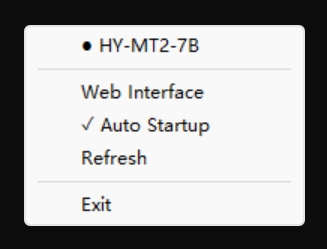
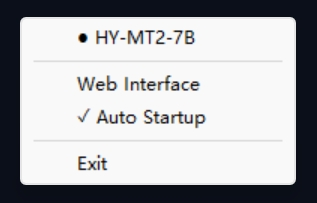
Remove Refresh, fix process tree kill, drop scanning logic
- Drop Refresh button — restart app manually to apply config changes
   - Fix stopLlamaServer to use taskkill /T (tree kill) for child processes
   - Add 5s timeout on Process.Wait + 300ms port release delay
   - Remove modelDir, excludePatterns, scanModels, isExcluded
   - Hardcode defaultArgs for initial models.ini [*] generation
   - Fix parseINISections matching model-draft as model entry
   - config.json down to 3 fields: autoStartEnabled, port, pollInterval
   - models.ini is fully user-managed, no auto-append on refresh

diff --git a/main.go b/main.go
@@ -53,7 +53,6 @@ var (
 		modelLabel   *systray.MenuItem
 		webInterface *systray.MenuItem
 		autoStart    *systray.MenuItem
-		refresh      *systray.MenuItem
 		quit         *systray.MenuItem
 	}
 )
@@ -267,15 +266,29 @@ func parseINISections(content string) []modelSection {
 	return sections
 }
 
+func stopLlamaServer() {
+	if serverCmd == nil || serverCmd.Process == nil {
+		return
+	}
+	exec.Command("taskkill", "/f", "/t", "/pid", strconv.Itoa(serverCmd.Process.Pid)).Run()
+
+	done := make(chan struct{})
+	go func() {
+		serverCmd.Process.Wait()
+		close(done)
+	}()
+	select {
+	case <-done:
+	case <-time.After(5 * time.Second):
+	}
+	serverCmd = nil
+	time.Sleep(300 * time.Millisecond)
+}
+
 func startLlamaServer() error {
 	serverCmdMu.Lock()
+	stopLlamaServer()
 	defer serverCmdMu.Unlock()
-
-	if serverCmd != nil && serverCmd.Process != nil {
-		serverCmd.Process.Kill()
-		serverCmd.Process.Wait()
-		serverCmd = nil
-	}
 
 	args := []string{
 		"--models-preset", "models.ini",
@@ -398,7 +411,6 @@ func buildMenu() {
 	systray.AddSeparator()
 	menuItems.webInterface = systray.AddMenuItem("Web Interface", "Open web UI")
 	menuItems.autoStart = systray.AddMenuItem("Auto Startup", "Toggle auto-start")
-	menuItems.refresh = systray.AddMenuItem("Refresh", "Reload config and models.ini")
 	systray.AddSeparator()
 	menuItems.quit = systray.AddMenuItem("Exit", "Quit lmgo")
 
@@ -415,12 +427,6 @@ func buildMenu() {
 			setAutoStart(config.AutoStartEnabled)
 			saveConfig()
 			refreshMenuState()
-		}
-	}()
-
-	go func() {
-		for range menuItems.refresh.ClickedCh {
-			refreshAll()
 		}
 	}()
 
@@ -449,23 +455,6 @@ func refreshMenuState() {
 	} else {
 		menuItems.autoStart.SetTitle("Auto Startup")
 	}
-}
-
-func refreshAll() {
-	if err := loadConfig(); err != nil {
-		log.Printf("Failed to reload config: %v", err)
-		return
-	}
-	if err := generateModelsINI(); err != nil {
-		log.Printf("Failed to regenerate models.ini: %v", err)
-		return
-	}
-	if err := startLlamaServer(); err != nil {
-		log.Printf("Failed to restart llama-server: %v", err)
-		return
-	}
-	refreshMenuState()
-	log.Printf("Refreshed: %d models", len(modelSections))
 }
 
 func startupShortcutPath() (string, error) {
@@ -514,9 +503,6 @@ func isAutoStartEnabled() (bool, error) {
 
 func onExit() {
 	serverCmdMu.Lock()
-	if serverCmd != nil && serverCmd.Process != nil {
-		serverCmd.Process.Kill()
-		serverCmd.Process.Wait()
-	}
+	stopLlamaServer()
 	serverCmdMu.Unlock()
 }

diff --git a/README_zh.md b/README_zh.md
@@ -28,7 +28,6 @@ lmgo-v2 是一个 Windows 系统托盘应用，封装了 llama.cpp server 的 **
 2. 放到空文件夹中运行
 3. 托盘图标出现，自动生成 `config.json` 和 `models.ini`
 4. 编辑 `models.ini` 定义模型（路径、参数等）
-5. 托盘菜单点 **Refresh** 使配置生效
 
 ## 配置
 
@@ -88,7 +87,6 @@ mmproj = D:/LLM/mmproj-F16.gguf
 
 段名即 API 请求中的模型标识符。所有 [llama-server CLI 参数](https://github.com/ggml-org/llama.cpp) 都可以作为 INI key（去掉前缀 `--` 即可）。
 
-`models.ini` 已存在时，Refresh 只追加新扫描到的 `.gguf` 文件，手动编辑的内容不会被覆盖。
 
 ## API 使用
 
@@ -121,7 +119,6 @@ client.chat.completions.create(
 ──────────────
 Web Interface        ← 打开 http://localhost:{port}
 ✓ Auto Startup       ← 开关开机自启
-Refresh              ← 重载 config.json + models.ini + 重启 server
 ──────────────
 Exit
 ```

diff --git a/README.md b/README.md
@@ -28,7 +28,6 @@ lmgo-v2 is a Windows system tray app that wraps llama.cpp server in **router mod
 2. Place it in an empty folder
 3. Run it — a tray icon appears, `config.json` and `models.ini` are generated
 4. Edit `models.ini` to define your models (paths, parameters)
-5. Click **Refresh** in the tray menu to apply changes
 
 ## Configuration
 
@@ -88,7 +87,6 @@ mmproj = D:/LLM/mmproj-F16.gguf
 
 The section name is the model identifier used in API requests. All [llama-server CLI flags](https://github.com/ggml-org/llama.cpp) are valid INI keys (remove the leading `--`).
 
-When `models.ini` already exists, Refresh only appends newly discovered `.gguf` files — your hand-edited config is preserved.
 
 ## API Usage
 